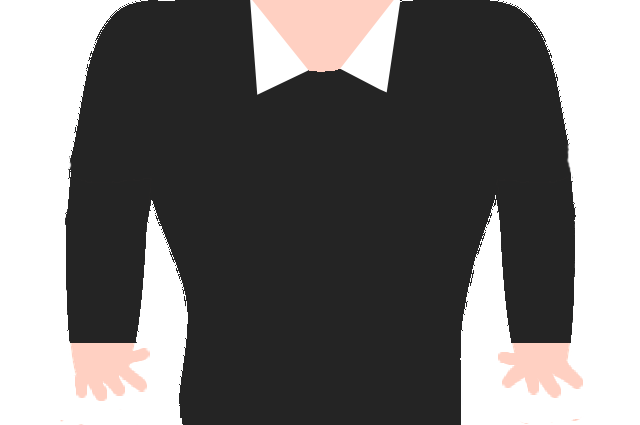
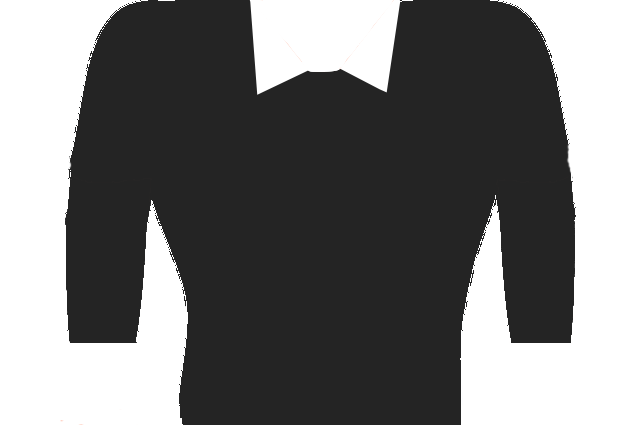
Change suit to sweater in sass

Changed region(s): [[0.375, 0.0, 0.625, 0.1835], [0.0938, 0.7953, 0.25, 0.9482], [0.7812, 0.7953, 0.9062, 0.9482]]

diff --git a/webApp/game_froilan/styles/style.scss b/webApp/game_froilan/styles/style.scss
@@ -393,7 +393,7 @@ button {
             @include bodyImage("../img/shirts/dwight.png");
         }
         #dragshirt3 {
-            @include bodyImage("../img/shirts/shrek.png");
+            @include bodyImage("../img/shirts/sweater.png");
         }
         .center {
             .dropzone {

diff --git a/webApp/game_froilan/styles/style.css b/webApp/game_froilan/styles/style.css
@@ -452,7 +452,7 @@ button {
 }
 
 .box #shirts #dragshirt3 {
-  background-image: url("../img/shirts/shrek.png");
+  background-image: url("../img/shirts/sweater.png");
   background-position: center;
   background-repeat: no-repeat;
   background-size: contain;
